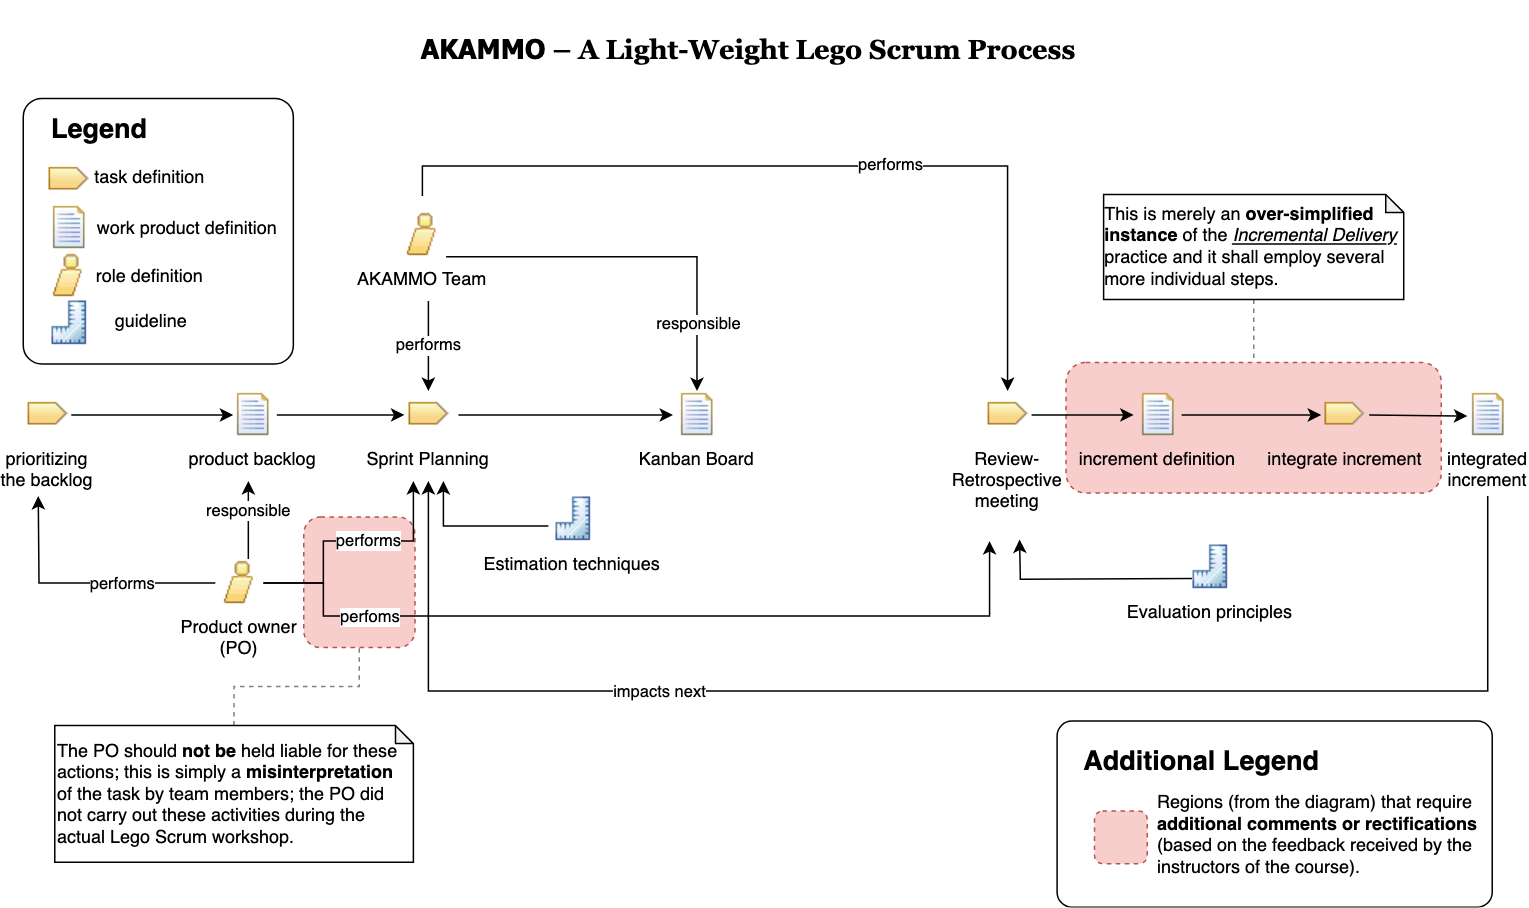
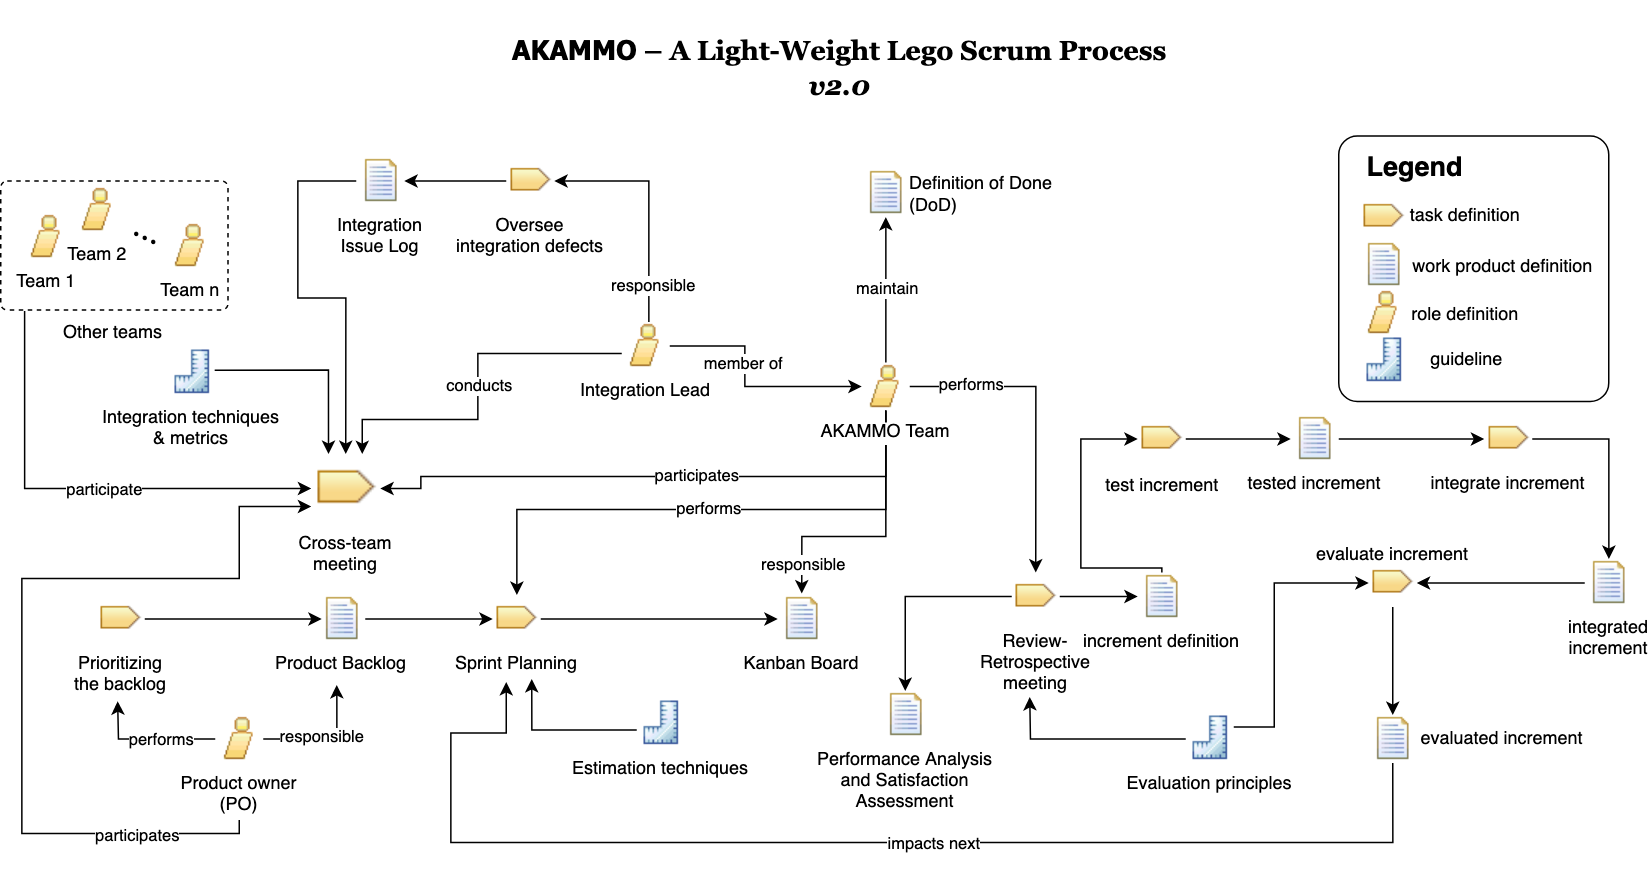
Add task 7, draft 6, add diagram (report; DIT348)
TODO: abstract, task 6, task 8 (bonus), conclusion.
ETA: 8h

diff --git a/report_template_dit348.tex b/report_template_dit348.tex
@@ -166,9 +166,6 @@ Lego Scrum workshop, the team members are not obliged to hold such meetings,
 since the team merely consists of six members, and the workshop itself is not
 meant to last longer than four hours.
 
-A high-level overview of the process with the use of the SPEM 2.0 meta-model
-can be seen in Figure~\ref{fig:process-diagram}.
-
 % TODO: can add more text here if the page limit permits.
 
 \section{Experiences in the Scrum Workshop}
@@ -264,7 +261,7 @@ process.
 \begin{figure*}
 	\centering
 	\includegraphics[width=0.9\textwidth]{process-diagram.png}
-  \caption{{\fontfamily{qhv}\selectfont AKAMMO} SPEM 2.0 diagram (initial version)}
+  \caption{SPEM 2.0 diagram of the updated process}
 	\label{fig:process-diagram}
 \end{figure*}
 
@@ -327,6 +324,8 @@ written by any general-purpose programming language (e.g., Python, Julia,
 etc.). Nevertheless, having applied this technique to our process, we could
 leverage the gathered data to enhance the process in the future stages of its
 maturity. For instance, we could identify a new strategy on how a DoD is to be
+modeled, or, perhaps, we could identify a new technique to estimate the user
+stories.
 
 Ultimately, iFLAP further recommends to identify \textbf{dependencies between
 improvement issues} as well as \textit{"package"} the improvement issues into
@@ -520,9 +519,8 @@ hold user stories that are subject to be reviewed based on the principles of
 the team's DoD. Afterwards, if all items of the DoD are satisfied, the user
 story is moved to the \textit{Done} column. Otherwise, the user story is moved
 back to the \textit{To Do} column. So, the updated flow would be as follows:
-
-$$\textit{To Do} \to \textit{In Progress} \leftrightarrow \textit{QA} \to
-\textit{Done}$$
+$\textit{To Do} \to \textit{In Progress} \leftrightarrow \textit{QA} \to
+\textit{Done}$.
 
 % TODO: revisit if these are actually feasible.
 
@@ -555,22 +553,54 @@ measurement plans, notably M3.1 and M3.2.
 \section{Implementation of an SPI Initiative}
 \label{sec:implementation}
 
+Beacause of an illness, I was unable to attend the second Lego Scrum workshop,
+so the alternative task is to be completed instead in this section instead.
+
+TODO: finish this section. Use the paper \cite{Niazi2010} as a reference.
+Use the extra assignment as a reference too.
+
 % If you did not attend the Lego workshops, this section may be dedicated to a
 % discussion of challenges in SPI projects. Find at least four relevant
 % references that mention and analyze challenges and compile an overview of
-% what has been observed in the literature. Relate these challenges to
-% empirical studies that have been published and to your personal experience.
+% what has been observed in the literature.
+
+% Relate these challenges to empirical studies that have been published and to
+% your personal experience.
+
 % Identify the SPI techniques that might help to overcome these challenges.
 % Critically discuss the solution approaches from the papers.
 
 \section{Redesign of the Software Process}
 \label{sec:redesign}
 
-After reflecting on the SPI experiences, think about how you would design your process for the Lego workshop if you could do it again.
-Create a SPEM 2.0 diagram and replace Figure~\ref{fig:placeholderdiagram} with it.
-Briefly describe at least the key task definitions, role definitions, and work product definitions that you aim to use, with 1--2 sentences per definition.
+An updated version of the diagram can be seen in
+Figure~\ref{fig:process-diagram}. In this section, some key aspects of the
+diagram are described in more detail.
 
-This section must be worked on individually.
+Most importantly, the task definition \textit{"Cross-team meeting"} has been
+added. This change should address the SPI initiative in terms of enhancing
+cross-team communication efforts and the detection of integration issues (see
+the last paragraph of Section~\ref{sec:experiences} and 3) from
+Section~\ref{sec:proposal}). Simultaneously, a new role titled
+\textit{"Integration Lead"}, whose primary responsibility is represented with a
+new task definition \textit{"Oversee integration defects"}, has been added. The
+addition of this role is supposed to realize the second improvement step of 3)
+(see Section~\ref{sec:proposal}). During these meetings, an
+\textit{"Integration Issue Log"} is to be utilized which the Integration Lead
+is responsible for. Furthermore, participation of the PO is encouraged, and the
+other teams are invited to join the meetings too---they are depicted in a
+\textit{cluster} of several role definitions titled \textit{"Other Teams"}.
+
+The \fontfamily{qhv}\selectfont AKAMMO\rmfamily{} team members are represented
+with a single role definition, and the Integration Lead is a member of the team. The
+team, moreover, is supposed to maintain the DoD and the Kanban board (which are
+work product definitions). The team also performs \textit{"Sprint Planning"} and
+\textit{"Review \& Retrospective"} meetings (these remain unchanged and the
+descriptions from Section~\ref{sec:process} are still applicable). Lastly,
+following the principles of \textbf{incremental delivery}, the team, after each
+sprint, delivers an increment that undergoes a few stages ultimately resulting
+in an \textit{"evaluated increment"} which servers as a basis for the following
+sprint.
 
 \section{Bonus Task: Scrum of Scrums}
 \label{sec:bonus_task}
